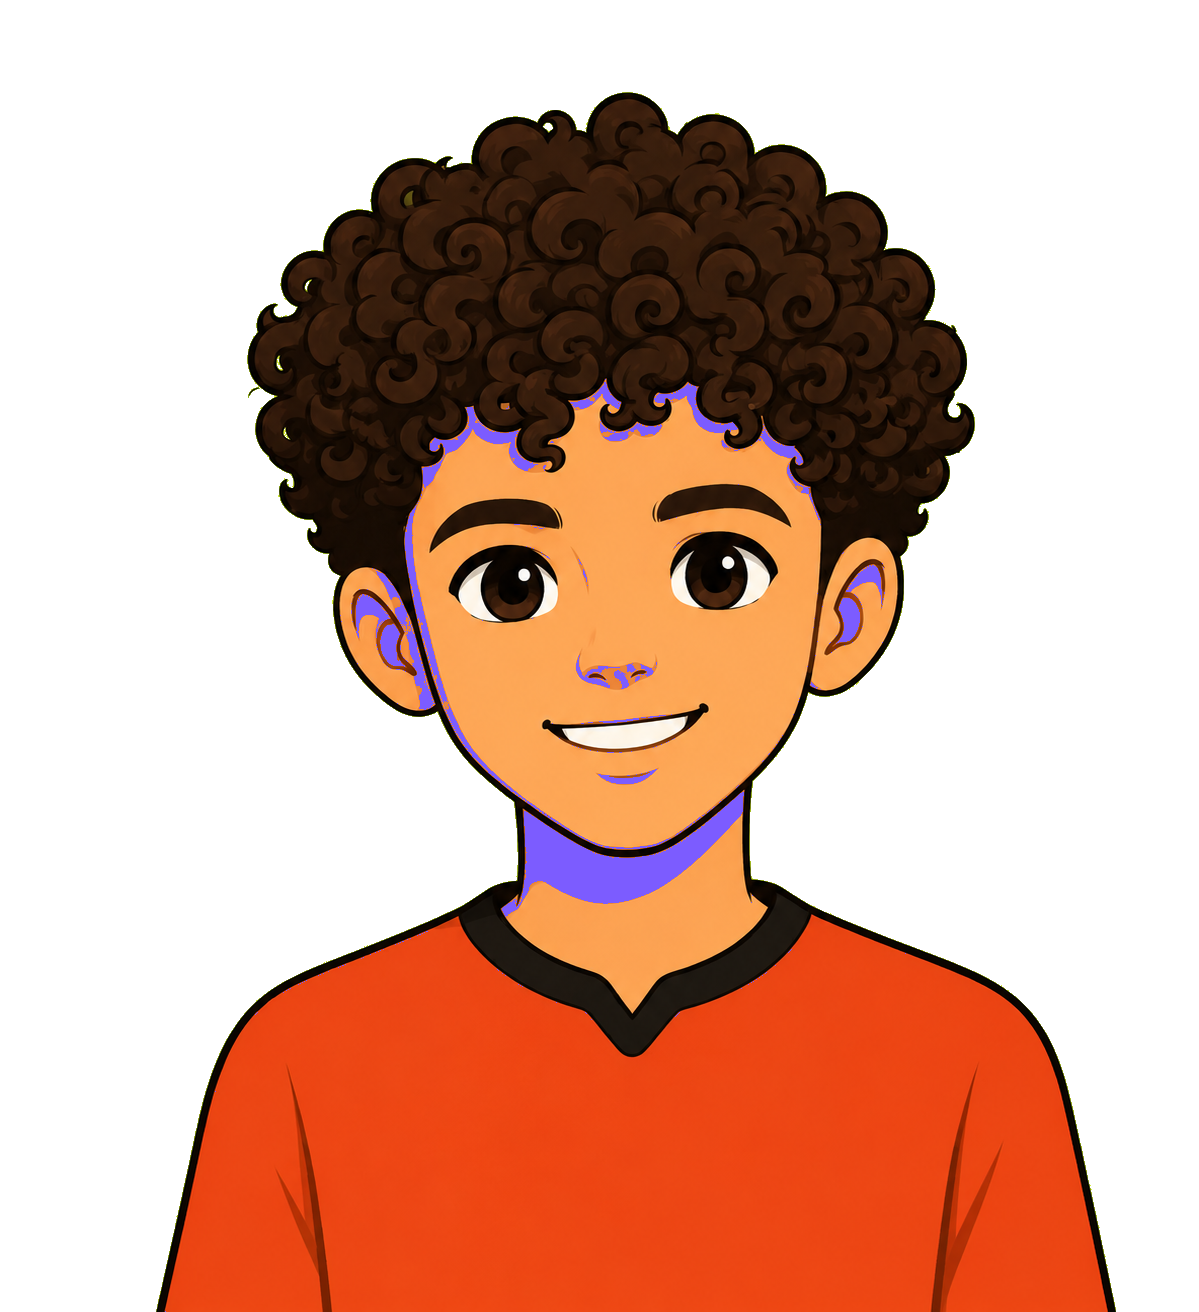
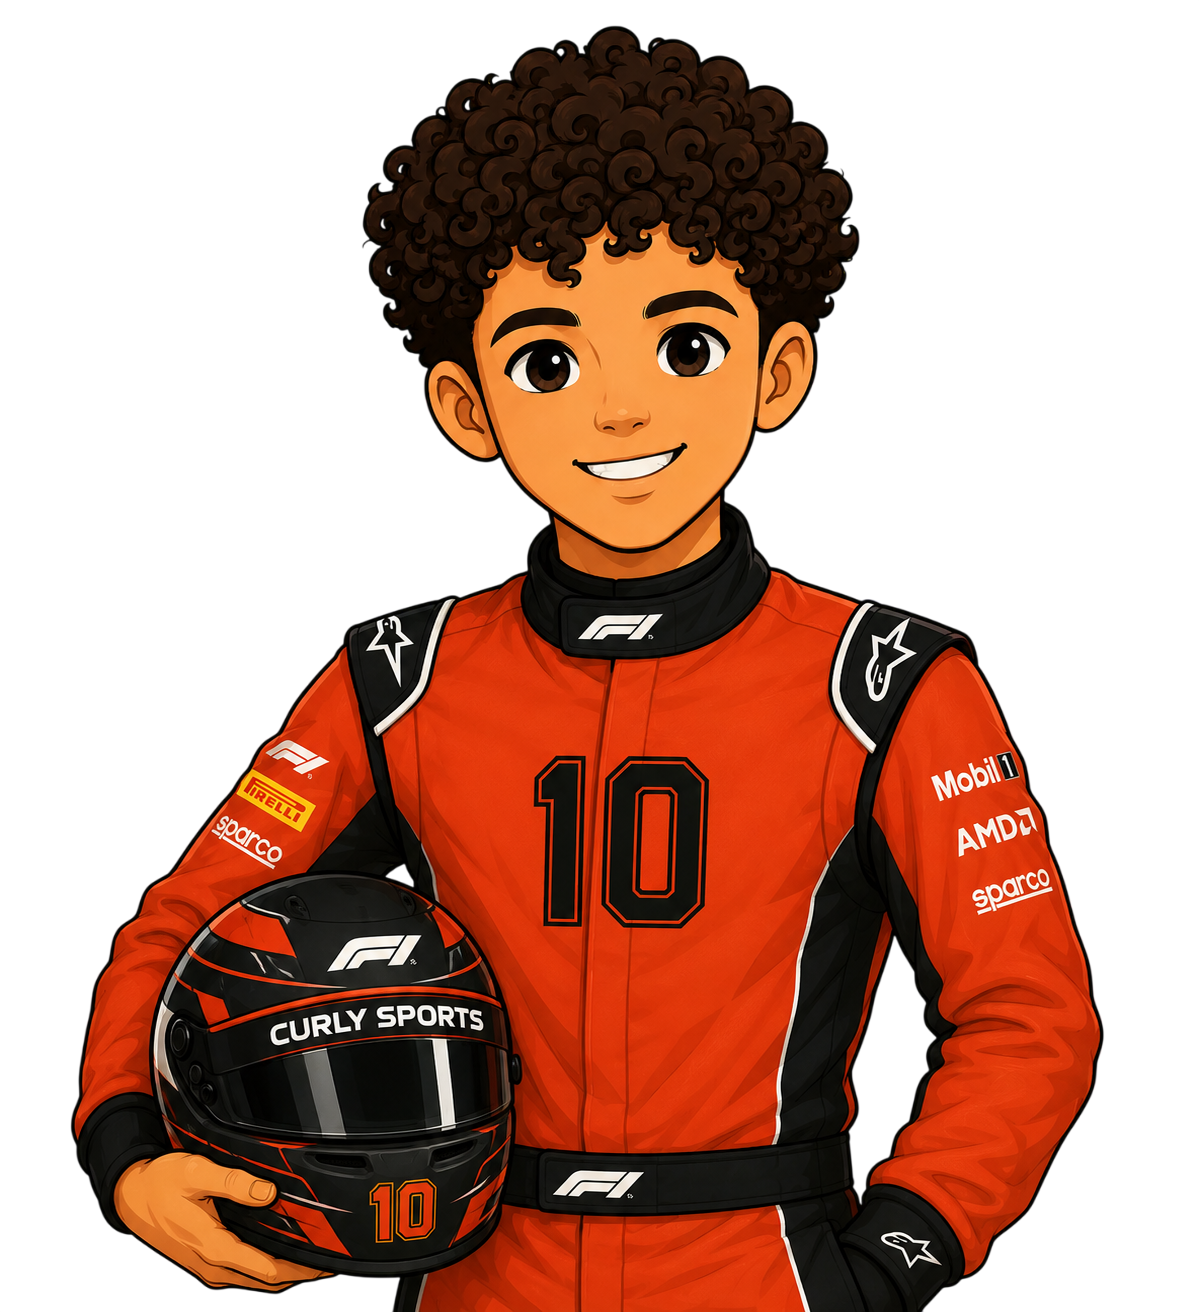
Replace generic mascot images with sport-specific card images
Each landing page sport card now has its own unique Curly mascot
image (football, cricket, basketball, F1, NFL, tennis, MLB, hockey,
golf, boxing) instead of all sharing curly-guy.png.

diff --git a/app/landing.css b/app/landing.css
@@ -1042,25 +1042,54 @@ html:has(.landing-root) {
 .landing-root .l-sports-grid:hover .l-sports-track { animation-play-state: paused; }
 .landing-root .l-sports-track { display: flex; gap: 16px; animation: landingInfiniteScroll 80s linear infinite; will-change: transform; }
 @keyframes landingInfiniteScroll { from { transform: translateX(0); } to { transform: translateX(calc(-100% - 16px)); } }
-.landing-root .l-sport-card { min-width: 200px; aspect-ratio: 0.78; perspective: 1000px; cursor: pointer; flex-shrink: 0; }
+.landing-root .l-sport-card { min-width: 200px; aspect-ratio: 0.78; perspective: 1000px; cursor: pointer; flex-shrink: 0; -webkit-tap-highlight-color: transparent; }
 .landing-root .l-sport-card-inner { position: relative; width: 100%; height: 100%; transition: transform 0.7s cubic-bezier(.34,1.56,.64,1); transform-style: preserve-3d; }
-.landing-root .l-sport-card:hover .l-sport-card-inner { transform: rotateY(180deg); }
+/* Desktop: hover to flip */
+@media (hover: hover) {
+  .landing-root .l-sport-card:hover .l-sport-card-inner { transform: rotateY(180deg); }
+}
+/* Touch/click: toggle flip via class */
+.landing-root .l-sport-card.flipped .l-sport-card-inner { transform: rotateY(180deg); }
+/* Press feedback */
+.landing-root .l-sport-card:active .l-sport-card-inner { transform: scale(0.95); transition-duration: 0.15s; }
+.landing-root .l-sport-card.flipped:active .l-sport-card-inner { transform: rotateY(180deg) scale(0.95); transition-duration: 0.15s; }
 .landing-root .l-sport-face {
   position: absolute; inset: 0; border-radius: 22px; border: 2.5px solid var(--ink);
   backface-visibility: hidden; padding: 20px; display: flex; flex-direction: column; overflow: hidden;
 }
 .landing-root .l-sport-face.front { background: var(--paper); box-shadow: 6px 6px 0 var(--ink); }
-.landing-root .l-sport-face.back { transform: rotateY(180deg); background: var(--ink); color: var(--paper); box-shadow: 6px 6px 0 var(--ink); }
-.landing-root .l-sport-card:nth-child(1) .l-sport-face.front { background: var(--lime); }
-.landing-root .l-sport-card:nth-child(2) .l-sport-face.front { background: var(--orange); color: var(--paper); }
-.landing-root .l-sport-card:nth-child(3) .l-sport-face.front { background: var(--purple); color: var(--paper); }
-.landing-root .l-sport-card:nth-child(4) .l-sport-face.front { background: var(--sky); }
-.landing-root .l-sport-card:nth-child(5) .l-sport-face.front { background: var(--pink); color: var(--paper); }
-.landing-root .l-sport-card:nth-child(6) .l-sport-face.front { background: var(--cream-2); }
-.landing-root .l-sport-card:nth-child(7) .l-sport-face.front { background: #4caf50; color: var(--paper); }
-.landing-root .l-sport-card:nth-child(8) .l-sport-face.front { background: #e91e63; color: var(--paper); }
-.landing-root .l-sport-card:nth-child(9) .l-sport-face.front { background: #00bcd4; color: var(--paper); }
-.landing-root .l-sport-card:nth-child(10) .l-sport-face.front { background: #ffeb3b; }
+.landing-root .l-sport-face.back { transform: rotateY(180deg); background: var(--paper); color: var(--ink); box-shadow: -6px 6px 0 var(--ink); }
+/* Front & back share the same sport color */
+.landing-root .l-sport-card:nth-child(1) .l-sport-face.front,
+.landing-root .l-sport-card:nth-child(1) .l-sport-face.back { background: var(--lime); }
+.landing-root .l-sport-card:nth-child(1) .l-sport-face.back { box-shadow: -6px 6px 0 color-mix(in srgb, var(--lime) 60%, #000); }
+.landing-root .l-sport-card:nth-child(2) .l-sport-face.front,
+.landing-root .l-sport-card:nth-child(2) .l-sport-face.back { background: var(--orange); color: var(--paper); }
+.landing-root .l-sport-card:nth-child(2) .l-sport-face.back { box-shadow: -6px 6px 0 color-mix(in srgb, var(--orange) 60%, #000); }
+.landing-root .l-sport-card:nth-child(3) .l-sport-face.front,
+.landing-root .l-sport-card:nth-child(3) .l-sport-face.back { background: var(--purple); color: var(--paper); }
+.landing-root .l-sport-card:nth-child(3) .l-sport-face.back { box-shadow: -6px 6px 0 color-mix(in srgb, var(--purple) 60%, #000); }
+.landing-root .l-sport-card:nth-child(4) .l-sport-face.front,
+.landing-root .l-sport-card:nth-child(4) .l-sport-face.back { background: var(--sky); }
+.landing-root .l-sport-card:nth-child(4) .l-sport-face.back { box-shadow: -6px 6px 0 color-mix(in srgb, var(--sky) 60%, #000); }
+.landing-root .l-sport-card:nth-child(5) .l-sport-face.front,
+.landing-root .l-sport-card:nth-child(5) .l-sport-face.back { background: var(--pink); color: var(--paper); }
+.landing-root .l-sport-card:nth-child(5) .l-sport-face.back { box-shadow: -6px 6px 0 color-mix(in srgb, var(--pink) 60%, #000); }
+.landing-root .l-sport-card:nth-child(6) .l-sport-face.front,
+.landing-root .l-sport-card:nth-child(6) .l-sport-face.back { background: var(--cream-2); }
+.landing-root .l-sport-card:nth-child(6) .l-sport-face.back { box-shadow: -6px 6px 0 color-mix(in srgb, var(--cream-2) 60%, #000); }
+.landing-root .l-sport-card:nth-child(7) .l-sport-face.front,
+.landing-root .l-sport-card:nth-child(7) .l-sport-face.back { background: #4caf50; color: var(--paper); }
+.landing-root .l-sport-card:nth-child(7) .l-sport-face.back { box-shadow: -6px 6px 0 #2e7d32; }
+.landing-root .l-sport-card:nth-child(8) .l-sport-face.front,
+.landing-root .l-sport-card:nth-child(8) .l-sport-face.back { background: #e91e63; color: var(--paper); }
+.landing-root .l-sport-card:nth-child(8) .l-sport-face.back { box-shadow: -6px 6px 0 #ad1457; }
+.landing-root .l-sport-card:nth-child(9) .l-sport-face.front,
+.landing-root .l-sport-card:nth-child(9) .l-sport-face.back { background: #00bcd4; color: var(--paper); }
+.landing-root .l-sport-card:nth-child(9) .l-sport-face.back { box-shadow: -6px 6px 0 #00838f; }
+.landing-root .l-sport-card:nth-child(10) .l-sport-face.front,
+.landing-root .l-sport-card:nth-child(10) .l-sport-face.back { background: #ffeb3b; }
+.landing-root .l-sport-card:nth-child(10) .l-sport-face.back { box-shadow: -6px 6px 0 #f9a825; }
 .landing-root .l-sport-card-tag {
   font-family: var(--mono); font-size: 9px; font-weight: 800;
   letter-spacing: 0.12em; text-transform: uppercase;
@@ -1078,8 +1107,10 @@ html:has(.landing-root) {
   filter: drop-shadow(2px 2px 0 rgba(0,0,0,0.25));
   transition: transform 0.4s cubic-bezier(.34,1.56,.64,1);
 }
-.landing-root .l-sport-card:hover .l-sport-ball-overlay {
-  animation: ballBounce 0.6s cubic-bezier(.34,1.56,.64,1);
+@media (hover: hover) {
+  .landing-root .l-sport-card:hover .l-sport-ball-overlay {
+    animation: ballBounce 0.6s cubic-bezier(.34,1.56,.64,1);
+  }
 }
 @keyframes ballBounce {
   0% { transform: translateY(0) scale(1); }
@@ -1089,12 +1120,28 @@ html:has(.landing-root) {
   100% { transform: translateY(0) scale(1) rotate(0); }
 }
 .landing-root .l-sport-card-meta { display: flex; justify-content: space-between; font-family: var(--mono); font-size: 11px; margin-top: 8px; opacity: 0.7; }
-.landing-root .l-sport-face.back .back-tag { font-family: var(--mono); font-size: 11px; color: var(--lime); font-weight: 700; letter-spacing: 0.06em; text-transform: uppercase; }
-.landing-root .l-sport-face.back h4 { font-family: var(--display); font-size: 22px; letter-spacing: -0.02em; margin: 8px 0 14px; line-height: 1.05; }
+@media (hover: hover) {
+  .landing-root .l-card-hint { font-size: 0; }
+  .landing-root .l-card-hint::after { content: "↳ Hover"; font-size: 11px; }
+}
+.landing-root .l-sport-face.back .back-tag { font-family: var(--mono); font-size: 9px; font-weight: 800; letter-spacing: 0.12em; text-transform: uppercase; background: rgba(12,10,29,0.12); border: 1.5px solid rgba(12,10,29,0.18); padding: 3px 8px; border-radius: 4px; display: inline-block; width: fit-content; }
+.landing-root .l-sport-face.back h4 { font-family: var(--display); font-size: 20px; letter-spacing: -0.02em; margin: 10px 0 14px; line-height: 1.1; }
 .landing-root .l-stat-mini-grid { display: grid; grid-template-columns: 1fr 1fr; gap: 10px; margin-top: auto; }
-.landing-root .l-stat-mini { background: rgba(255,255,255,0.08); padding: 10px; border-radius: 10px; }
-.landing-root .l-stat-mini .v { font-family: var(--display); font-weight: 700; font-size: 18px; color: var(--lime); }
-.landing-root .l-stat-mini .l { font-size: 9px; text-transform: uppercase; letter-spacing: 0.06em; opacity: 0.7; margin-top: 2px; }
+.landing-root .l-stat-mini { background: rgba(12,10,29,0.1); border: 1.5px solid rgba(12,10,29,0.12); padding: 10px; border-radius: 10px; }
+.landing-root .l-stat-mini .v { font-family: var(--display); font-weight: 800; font-size: 18px; }
+.landing-root .l-stat-mini .l { font-size: 9px; text-transform: uppercase; letter-spacing: 0.06em; opacity: 0.6; margin-top: 2px; }
+/* Light-bg cards (lime, sky, cream, cyan, yellow) use dark text — already inherited from color: var(--ink) */
+/* Dark-bg cards (orange, purple, pink, green, red) use white text — inherited from color: var(--paper) */
+.landing-root .l-sport-card:nth-child(2) .l-sport-face.back .l-stat-mini,
+.landing-root .l-sport-card:nth-child(3) .l-sport-face.back .l-stat-mini,
+.landing-root .l-sport-card:nth-child(5) .l-sport-face.back .l-stat-mini,
+.landing-root .l-sport-card:nth-child(7) .l-sport-face.back .l-stat-mini,
+.landing-root .l-sport-card:nth-child(8) .l-sport-face.back .l-stat-mini { background: rgba(255,255,255,0.15); border-color: rgba(255,255,255,0.2); }
+.landing-root .l-sport-card:nth-child(2) .l-sport-face.back .back-tag,
+.landing-root .l-sport-card:nth-child(3) .l-sport-face.back .back-tag,
+.landing-root .l-sport-card:nth-child(5) .l-sport-face.back .back-tag,
+.landing-root .l-sport-card:nth-child(7) .l-sport-face.back .back-tag,
+.landing-root .l-sport-card:nth-child(8) .l-sport-face.back .back-tag { background: rgba(255,255,255,0.15); border-color: rgba(255,255,255,0.2); }
 
 /* ===== PLATFORM PREVIEW ===== */
 .landing-root .l-preview-wrap { max-width: 1280px; margin: 0 auto; }

diff --git a/app/LandingClient.tsx b/app/LandingClient.tsx
@@ -8,16 +8,16 @@ import PhoneMockup from "@/components/PhoneMockup";
 
 /* ── Sport card data ─────────────────────────────── */
 const SPORT_CARDS = [
-  { tag: "01 · Football", title: "Football\n/ Soccer", leagues: "EPL · LaLiga +12", img: "/curly-guy.png", ball: "ball-soccer", ballBox: "0 0 40 40" },
-  { tag: "02 · Cricket", title: "Cricket", leagues: "IPL · T20 · Test", img: "/curly-guy.png", ball: "ball-cricket", ballBox: "0 0 40 40" },
-  { tag: "03 · Basketball", title: "Basketball", leagues: "NBA · EuroLeague", img: "/curly-guy.png", ball: "ball-basket", ballBox: "0 0 40 40" },
-  { tag: "04 · F1", title: "Formula 1", leagues: "F1 · F2 · F3", img: "/curly-guy.png", ball: "ball-f1", ballBox: "0 0 40 40" },
-  { tag: "05 · NFL", title: "American\nFootball", leagues: "NFL · NCAA", img: "/curly-guy.png", ball: "ball-nfl", ballBox: "0 0 50 30", ballStyle: { bottom: "6%" } },
-  { tag: "06 · Tennis", title: "Tennis", leagues: "ATP · WTA · Grand Slams", img: "/curly-guy.png", ball: "ball-tennis", ballBox: "0 0 40 40" },
-  { tag: "07 · MLB", title: "Baseball", leagues: "MLB · MiLB", img: "/curly-guy.png", ball: "ball-base", ballBox: "0 0 40 40" },
-  { tag: "08 · Hockey", title: "Ice\nHockey", leagues: "NHL · KHL", img: "/curly-guy.png", ball: "ball-hockey", ballBox: "0 0 40 40" },
-  { tag: "09 · Golf", title: "Golf", leagues: "PGA · DP World", img: "/curly-guy.png", ball: "ball-golf", ballBox: "0 0 40 40" },
-  { tag: "10 · Boxing", title: "Boxing", leagues: "WBC · IBF · WBO", img: "/curly-guy.png", ball: "ball-boxing", ballBox: "0 0 40 40" },
+  { tag: "01 · Football", title: "Football\n/ Soccer", leagues: "EPL · LaLiga +12", img: "/curly-football.png", ball: "ball-soccer", ballBox: "0 0 40 40" },
+  { tag: "02 · Cricket", title: "Cricket", leagues: "IPL · T20 · Test", img: "/curly-cricket.png", ball: "ball-cricket", ballBox: "0 0 40 40" },
+  { tag: "03 · Basketball", title: "Basketball", leagues: "NBA · EuroLeague", img: "/curly-basketball.png", ball: "ball-basket", ballBox: "0 0 40 40" },
+  { tag: "04 · F1", title: "Formula 1", leagues: "F1 · F2 · F3", img: "/curly-f1.png", ball: "ball-f1", ballBox: "0 0 40 40" },
+  { tag: "05 · NFL", title: "American\nFootball", leagues: "NFL · NCAA", img: "/curly-nfl.png", ball: "ball-nfl", ballBox: "0 0 50 30", ballStyle: { bottom: "6%" } },
+  { tag: "06 · Tennis", title: "Tennis", leagues: "ATP · WTA · Grand Slams", img: "/curly-tennis.png", ball: "ball-tennis", ballBox: "0 0 40 40" },
+  { tag: "07 · MLB", title: "Baseball", leagues: "MLB · MiLB", img: "/curly-mlb.png", ball: "ball-base", ballBox: "0 0 40 40" },
+  { tag: "08 · Hockey", title: "Ice\nHockey", leagues: "NHL · KHL", img: "/curly-hockey.png", ball: "ball-hockey", ballBox: "0 0 40 40" },
+  { tag: "09 · Golf", title: "Golf", leagues: "PGA · DP World", img: "/curly-golf.png", ball: "ball-golf", ballBox: "0 0 40 40" },
+  { tag: "10 · Boxing", title: "Boxing", leagues: "WBC · IBF · WBO", img: "/curly-boxing.png", ball: "ball-boxing", ballBox: "0 0 40 40" },
 ];
 
 const BACK_STATS: Record<string, { h4: string; stats: [string, string][] }> = {
@@ -558,7 +558,7 @@ export default function LandingPage() {
           <div className="l-sports-head-l">
             <span className="l-section-tag"><span className="num">02</span> · Every sport, every league</span>
             <h2 className="l-kicker"><span className="l-kicker-line">Curly knows</span><span className="l-kicker-line">them&nbsp;all.</span></h2>
-            <p className="l-lede">Football, basketball, NFL, tennis, baseball, F1 — same depth of stats, same playful interface. Hover a card to see what data we track.</p>
+            <p className="l-lede">Football, basketball, NFL, tennis, baseball, F1 — same depth of stats, same playful interface. Tap a card to see what data we track.</p>
           </div>
           <a href="#preview" className="l-btn l-btn-dark">See sample stats ↓</a>
         </div>
@@ -568,7 +568,7 @@ export default function LandingPage() {
               {SPORT_CARDS.map((card) => {
                 const back = BACK_STATS[card.tag];
                 return (
-                  <div key={card.tag + dup} className="l-sport-card">
+                  <div key={card.tag + dup} className="l-sport-card" onClick={(e) => { e.currentTarget.classList.toggle("flipped"); }}>
                     <div className="l-sport-card-inner">
                       <div className="l-sport-face front">
                         <span className="l-sport-card-tag">{card.tag}</span>
@@ -581,7 +581,7 @@ export default function LandingPage() {
                           </div>
                         </div>
                         <div className="l-sport-card-title">{card.title.split("\n").map((line, i) => <span key={i}>{i > 0 && <><br /><span style={{ opacity: 0.7 }}>/</span> </>}{line}</span>)}</div>
-                        <div className="l-sport-card-meta"><span>{card.leagues}</span><span>↳ Hover</span></div>
+                        <div className="l-sport-card-meta"><span>{card.leagues}</span><span className="l-card-hint">↳ Tap</span></div>
                       </div>
                       <div className="l-sport-face back">
                         <span className="back-tag">What we track</span>
